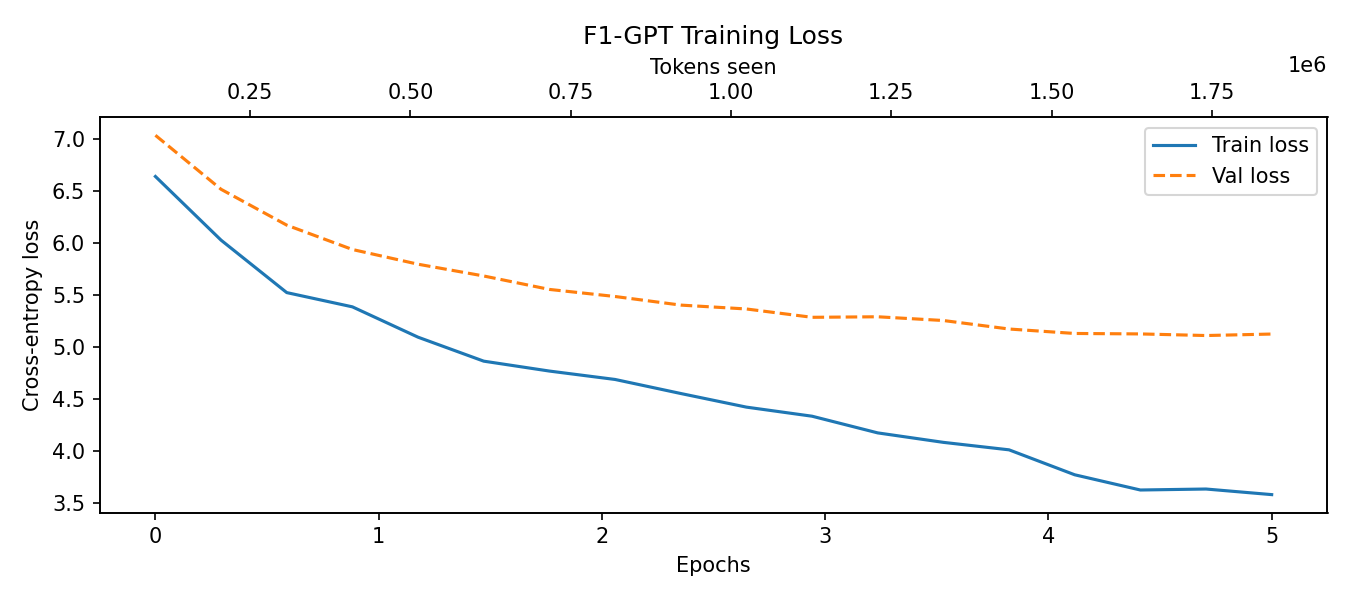
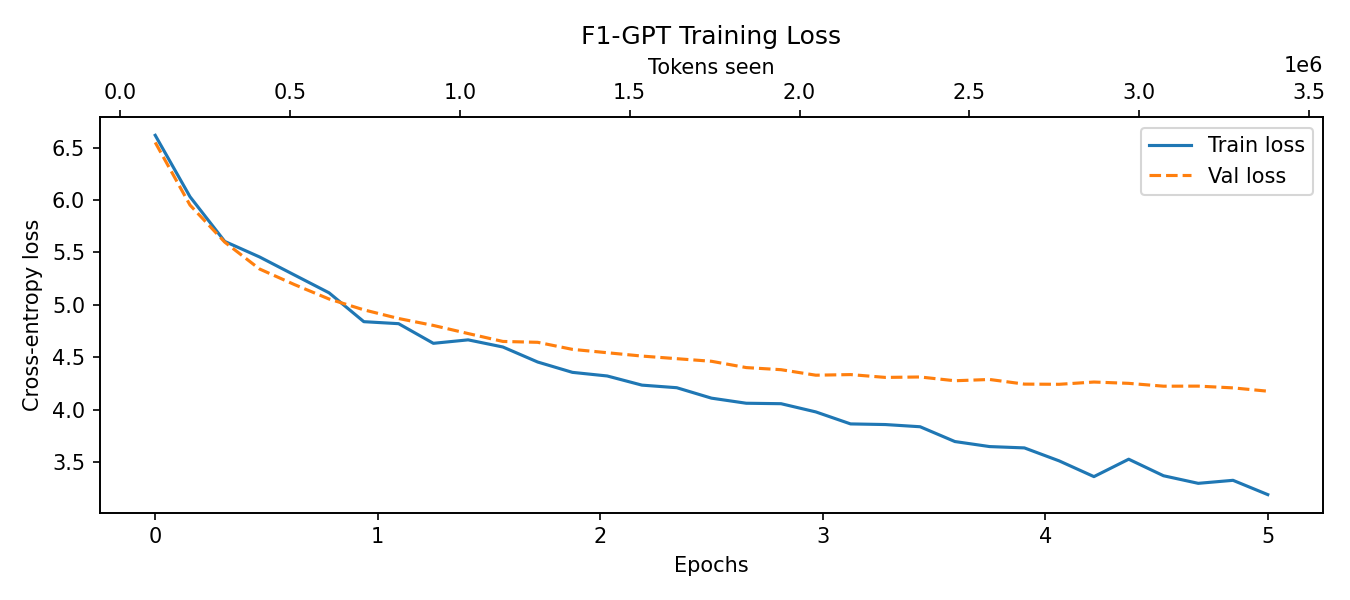
Update results: retrained on 3.5M char corpus
Train loss 10.9 → 3.19, val loss 6.5 → 4.18 over 5 epochs.
Model now correctly names drivers and championship structures.

diff --git a/README.md b/README.md
@@ -74,19 +74,19 @@ I think being able to work effectively with AI coding tools is an important skil
 
 ## Results
 
-Training ran for 5 epochs on CPU (~45 minutes on an Intel Mac). Loss dropped from ~10.9 → 3.58 (train) by the final epoch.
+Training ran for 5 epochs on CPU across two runs as the corpus was expanded. Final run used ~3.5M characters (100+ articles). Train loss dropped from ~10.9 → 3.19, val loss from ~6.5 → 4.18.
 
 ![Training loss curve](loss.png)
 
-**Generated text progression** — same prompt `"Lewis Hamilton won the"` after each epoch:
+**Generated text progression** — prompt `"Lewis Hamilton won the"` after each epoch:
 
 | Epoch | Output |
 |---|---|
-| 1 | *"...the race, and the race, and the season."* |
-| 3 | *"...the race. He finished second in the race. He finished second..."* |
-| 5 | *"...the Drivers' Championship... Formula One World Championship... most wins in the first time since..."* |
+| 1 | *"...the race."* |
+| 3 | *"...the race, and Verstappen finished fifth in the Drivers' Championship. Räikkönen was classified as a race in the season..."* |
+| 5 | *"...the Drivers' Championship... In the first race of the season, Hamilton won the championship... Mercedes driver Sebastian Vettel winning"* |
 
-By epoch 5 the model is producing recognizable F1 vocabulary and sentence structures — championship terminology, driver stats language — entirely from a ~30M parameter model trained on Wikipedia text.
+By epoch 5 the model correctly names real drivers, references real championship structures, and produces recognizable F1 sentence patterns — from a ~30M parameter model trained entirely on Wikipedia text.
 
 ---
 
